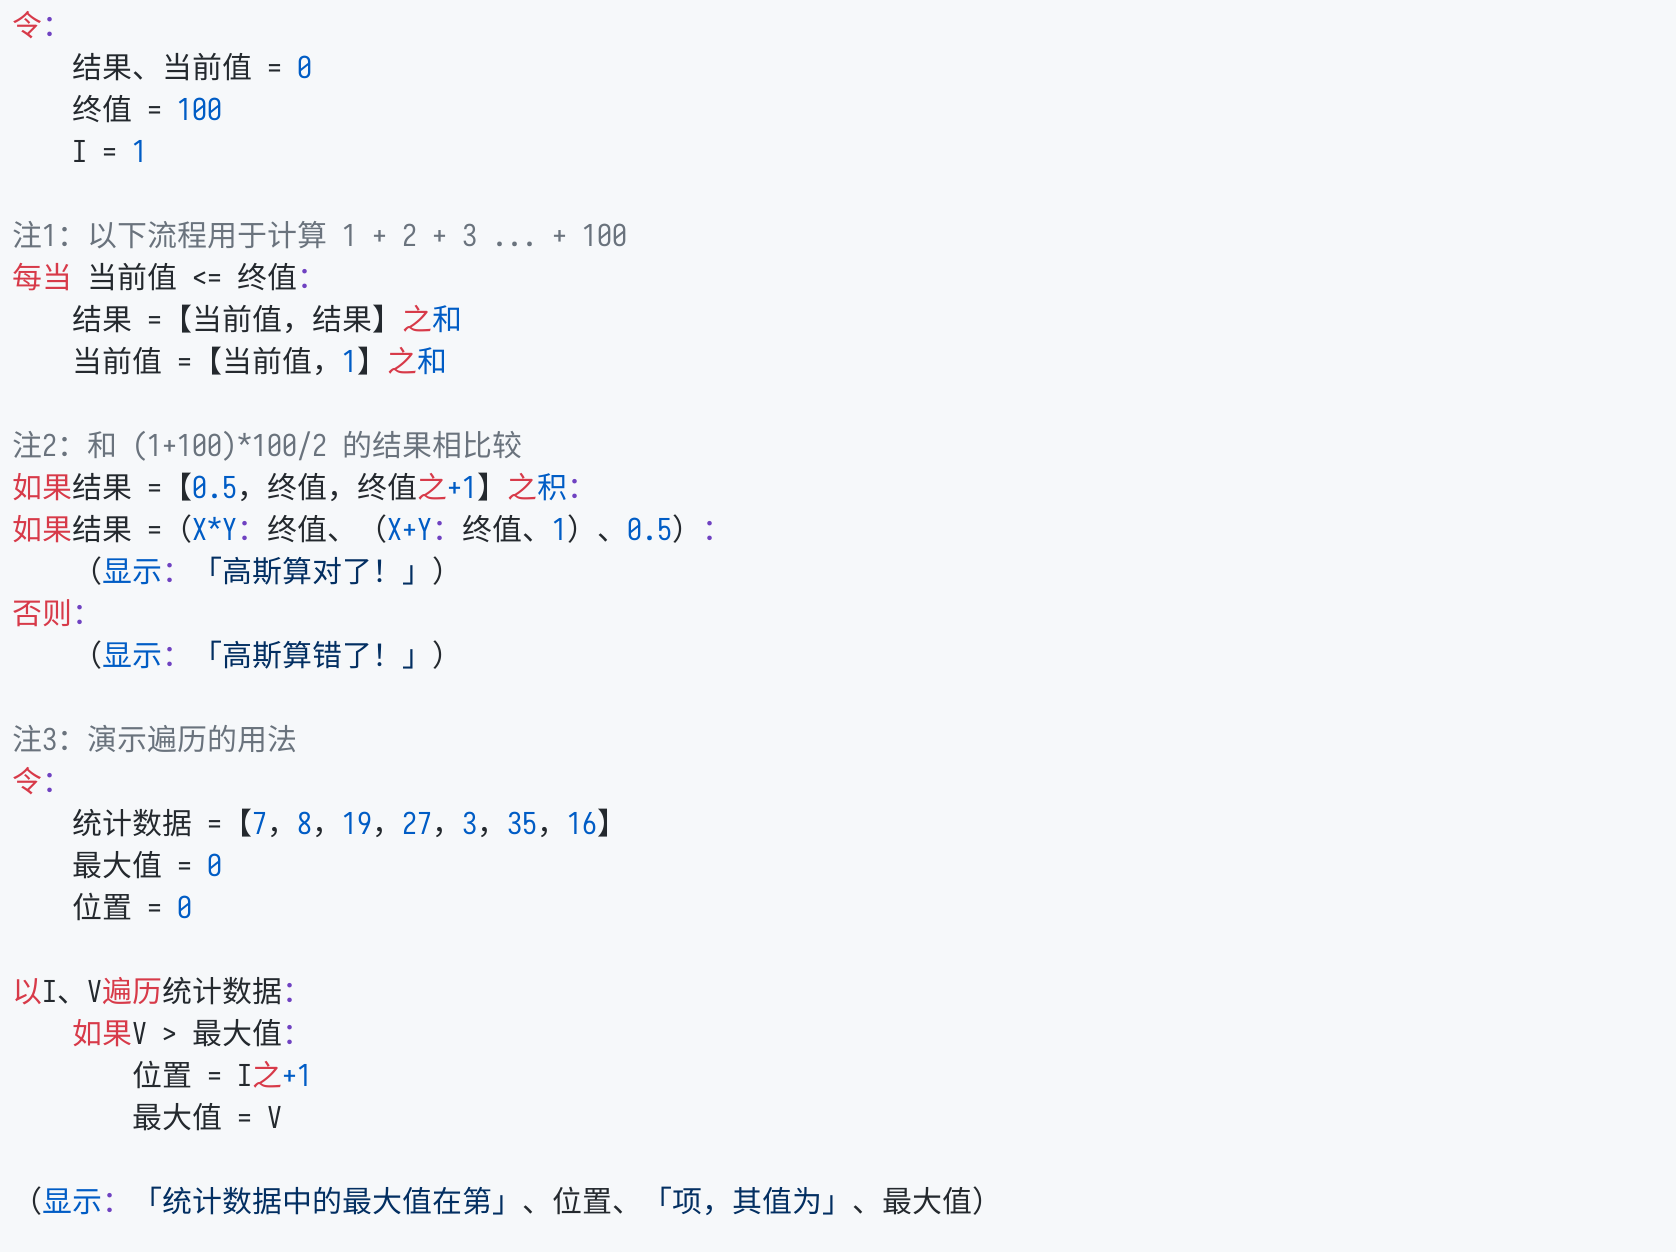
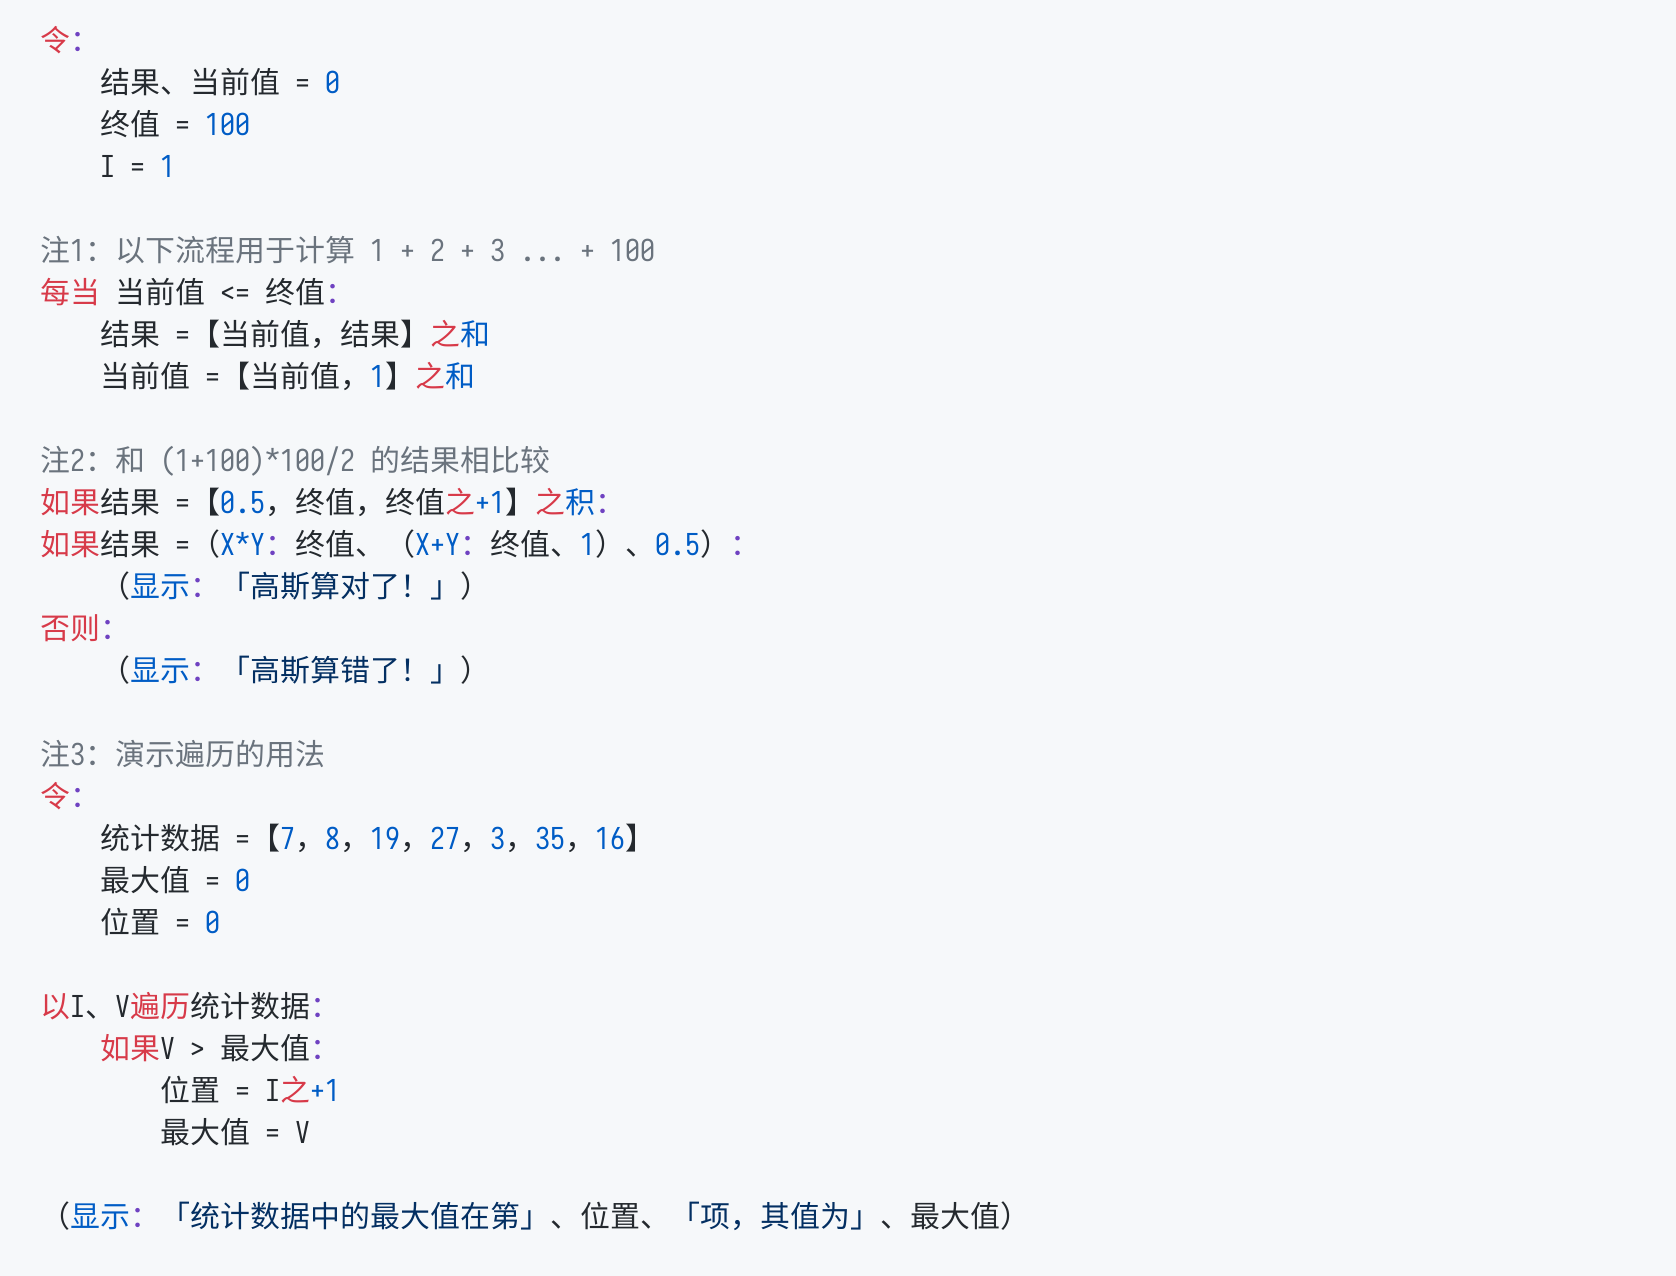
feat: add some interesting method for strings

diff --git a/exec/val/v_string.go b/exec/val/v_string.go
@@ -1,6 +1,7 @@
 package val
 
 import (
+	"strings"
 	"unicode/utf8"
 
 	"github.com/DemoHn/Zn/error"
@@ -39,5 +40,55 @@ func (s *String) SetProperty(c *ctx.Context, name string, value ctx.Value) *erro
 
 // ExecMethod -
 func (s *String) ExecMethod(c *ctx.Context, name string, values []ctx.Value) (ctx.Value, *error.Error) {
+	switch name {
+	// S 之（替换：<旧项>, <新项>）
+	case "替换":
+		if err := ValidateExactParams(values, "string", "string"); err != nil {
+			return nil, err
+		}
+		oldItem := values[0].(*String).String()
+		newItem := values[1].(*String).String()
+
+		result := strings.ReplaceAll(s.value, oldItem, newItem)
+		return NewString(result), nil
+	// S 之（分隔：<分隔符>） -> 【A，B，C，...】
+	case "分隔":
+		if err := ValidateExactParams(values, "string"); err != nil {
+			return nil, err
+		}
+		sep := values[0].(*String).String()
+		resultStrs := strings.Split(s.value, sep)
+
+		result := NewArray([]ctx.Value{})
+		for _, v := range resultStrs {
+			result.AppendValue(NewString(v))
+		}
+
+		return result, nil
+	case "匹配":
+		if err := ValidateExactParams(values, "string"); err != nil {
+			return nil, err
+		}
+		substr := values[0].(*String).String()
+		result := strings.Contains(s.value, substr)
+
+		return NewBool(result), nil
+	case "匹配开头":
+		if err := ValidateExactParams(values, "string"); err != nil {
+			return nil, err
+		}
+		substr := values[0].(*String).String()
+		result := strings.HasPrefix(s.value, substr)
+
+		return NewBool(result), nil
+	case "匹配结尾":
+		if err := ValidateExactParams(values, "string"); err != nil {
+			return nil, err
+		}
+		substr := values[0].(*String).String()
+		result := strings.HasSuffix(s.value, substr)
+
+		return NewBool(result), nil
+	}
 	return nil, error.MethodNotFound(name)
 }

diff --git a/cmd/znt/cmds/gen_code_image.go b/cmd/znt/cmds/gen_code_image.go
@@ -16,10 +16,10 @@ import (
 )
 
 const (
-	marginTop    = 15.0
-	marginBottom = 15.0
-	marginLeft   = 12.0
-	marginRight  = 12.0
+	marginTop    = 15.0 * 2
+	marginBottom = 12.0 * 2
+	marginLeft   = 20.0 * 2
+	marginRight  = 20.0 * 2
 	lineHeight   = 21 * 2
 	fontSize     = 15 * 2
 

diff --git a/doc/proposals/刍议10 -- Zn 语法优化.md b/doc/proposals/刍议10 -- Zn 语法优化.md
@@ -160,7 +160,7 @@ TODO
 - `{/+1D2F}` -> U+1D2F
 - `{{ ‹表达式› }}`  -> 表达式的值
 
-{{ 如果计划 = 真？233：467 }}
+{{ 如果计划 = 真？{}：{上午都是什么} }}
 
 
 如： `「3 + 5 等于 {{【3，5】之和 }}」`  ->  「3 + 5 等于 8」
